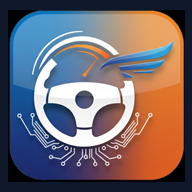
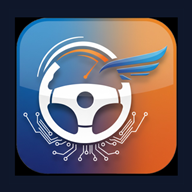
deploy: 24.04.2026, 04:01:58 (GMT+5)
─── Сохранение деплоя в GitHub ───

Дата и время сохранения (локально): 24.04.2026, 04:01:58 (GMT+5)
Дата и время (UTC, ISO): 2026-04-23T23:01:58.573Z

Действие: сборка (npm run build), публикация на Firebase Hosting и выкат Firestore/Storage правил и индексов.

Изменённые файлы (статус):
M	.firebase/hosting.ZGlzdA.cache
M	firebase.json
M	index.html
M	public/app-icon-192.png
M	public/app-icon-maskable-512.png
M	public/app-icon-v6.png
A	public/apple-touch-icon.png
M	public/manifest.webmanifest
M	public/open-app.html
M	public/version.json
M	scripts/generate-pwa-icons.ps1
M	src/pages/InstallAppPage.tsx
M	vite.config.ts

Детализация (git diff --cached --stat):
.firebase/hosting.ZGlzdA.cache   |  57 ++++++++++++++++---------------
 firebase.json                    |   2 +-
 index.html                       |   3 +-
 public/app-icon-192.png          | Bin 66176 -> 58604 bytes
 public/app-icon-maskable-512.png | Bin 188947 -> 168400 bytes
 public/app-icon-v6.png           | Bin 351343 -> 318698 bytes
 public/apple-touch-icon.png      | Bin 0 -> 52044 bytes
 public/manifest.webmanifest      |   2 --
 public/open-app.html             |   2 +-
 public/version.json              |   4 +--
 scripts/generate-pwa-icons.ps1   |   3 +-
 src/pages/InstallAppPage.tsx     |   6 +++-
 vite.config.ts                   |  71 ++++++++++++++++++++++++---------------
 13 files changed, 85 insertions(+), 65 deletions(-)

Итого: 13 files changed, 85 insertions(+), 65 deletions(-)
[…]

diff --git a/vite.config.ts b/vite.config.ts
@@ -112,34 +112,48 @@ function firebaseMessagingSwPlugin(mode: string): Plugin {
       const outDir = path.resolve(__dirname, "dist");
       const json = JSON.stringify(cfg);
       const fbVer = firebaseJsVersionForSw();
-      const src = `importScripts("https://www.gstatic.com/firebasejs/${fbVer}/firebase-app-compat.js");
-importScripts("https://www.gstatic.com/firebasejs/${fbVer}/firebase-messaging-compat.js");
-firebase.initializeApp(${json});
-const messaging = firebase.messaging();
-messaging.onBackgroundMessage((payload) => {
-  const d = payload.data || {};
-  const title =
-    (typeof d.title === "string" && d.title) ||
-    (payload.notification && payload.notification.title) ||
-    "\u2060";
-  const body =
-    (typeof d.body === "string" && d.body) ||
-    (payload.notification && payload.notification.body) ||
-    "";
-  const opts = {
-    body,
-    icon: "/app-icon-v6.png",
-    badge: "/favicon.svg",
-    data: d,
-    tag:
-      d.kind === "chat" && typeof d.chatId === "string" && d.chatId
-        ? "chat-" + d.chatId
-        : "startavto-" + (typeof d.kind === "string" ? d.kind : "msg"),
-  };
-  return self.registration.showNotification(title, opts);
+      const src = `try {
+  importScripts("https://www.gstatic.com/firebasejs/${fbVer}/firebase-app-compat.js");
+} catch (e) {}
+try {
+  importScripts("https://www.gstatic.com/firebasejs/${fbVer}/firebase-messaging-compat.js");
+} catch (e) {}
+try {
+  if (typeof firebase !== "undefined" && firebase.initializeApp) {
+    firebase.initializeApp(${json});
+    var messaging = typeof firebase.messaging === "function" ? firebase.messaging() : null;
+    if (messaging && typeof messaging.onBackgroundMessage === "function") {
+      messaging.onBackgroundMessage(function (payload) {
+        var d = payload.data || {};
+        var title =
+          (typeof d.title === "string" && d.title) ||
+          (payload.notification && payload.notification.title) ||
+          "\u2060";
+        var body =
+          (typeof d.body === "string" && d.body) ||
+          (payload.notification && payload.notification.body) ||
+          "";
+        var opts = {
+          body: body,
+          icon: "/app-icon-v6.png",
+          badge: "/app-icon-192.png",
+          data: d,
+          tag:
+            d.kind === "chat" && typeof d.chatId === "string" && d.chatId
+              ? "chat-" + d.chatId
+              : "startavto-" + (typeof d.kind === "string" ? d.kind : "msg"),
+        };
+        return self.registration.showNotification(title, opts);
+      });
+    }
+  }
+} catch (e) {}
+self.addEventListener("install", function (e) {
+  e.waitUntil(self.skipWaiting());
 });
-self.addEventListener("install", (e) => e.waitUntil(self.skipWaiting()));
-self.addEventListener("activate", (e) => e.waitUntil(self.clients.claim()));
+self.addEventListener("activate", function (e) {
+  e.waitUntil(self.clients.claim());
+});
 `;
       fs.mkdirSync(outDir, { recursive: true });
       fs.writeFileSync(path.join(outDir, "firebase-messaging-sw.js"), src, "utf8");
@@ -163,6 +177,7 @@ export default defineConfig(({ mode }) => {
       filename: "sw.js",
       includeAssets: [
         "favicon.ico",
+        "apple-touch-icon.png",
         "app-icon-192.png",
         "app-icon-maskable-512.png",
         "app-icon-v6.png",
@@ -176,6 +191,8 @@ export default defineConfig(({ mode }) => {
        */
       workbox: {
         globPatterns: ["**/*.{js,css,html,ico,png,svg,woff2,webmanifest}"],
+        /** `app-icon-source.png` не выкладываем на Hosting — не должен попадать в precache. */
+        globIgnores: ["**/app-icon-source.png"],
         maximumFileSizeToCacheInBytes: 6 * 1024 * 1024,
         navigateFallback: "/index.html",
         navigateFallbackDenylist: [/^\/api\//],

diff --git a/src/pages/InstallAppPage.tsx b/src/pages/InstallAppPage.tsx
@@ -152,7 +152,11 @@ function IosInstructions() {
   return (
     <ol className="install-app-steps">
       <li>
-        Откройте сайт <strong>в браузере Safari</strong> (не внутри других приложений).
+        Нужны <strong>iOS / iPadOS 16.4 или новее</strong> и открытие <strong>в Safari</strong> (не во встроенном браузере
+        Telegram, Instagram и т.п. — там пункта «На экран „Домой“» может не быть).
+      </li>
+      <li>
+        Откройте сайт <strong>в Safari</strong> по обычной ссылке (лучше скопировать адрес из чата и вставить в Safari).
       </li>
       <li>
         Нажмите кнопку <strong>Поделиться</strong> внизу экрана (квадрат со стрелкой вверх).

diff --git a/index.html b/index.html
@@ -13,10 +13,9 @@
     <meta name="apple-mobile-web-app-title" content="StartAvto" />
     <meta name="apple-mobile-web-app-status-bar-style" content="black-translucent" />
     <meta name="format-detection" content="telephone=no" />
+    <link rel="apple-touch-icon" href="/apple-touch-icon.png" sizes="180x180" />
     <link rel="icon" type="image/png" sizes="192x192" href="/app-icon-192.png" />
     <link rel="icon" type="image/png" sizes="512x512" href="/app-icon-v6.png" />
-    <link rel="apple-touch-icon" sizes="180x180" href="/app-icon-192.png" />
-    <link rel="apple-touch-icon" href="/app-icon-192.png" />
     <link rel="icon" href="/favicon.ico" sizes="32x32" />
     <link rel="icon" type="image/svg+xml" href="/favicon.svg" />
     <link rel="manifest" href="/manifest.webmanifest" />

diff --git a/public/open-app.html b/public/open-app.html
@@ -9,7 +9,7 @@
     <meta name="apple-mobile-web-app-capable" content="yes" />
     <meta name="apple-mobile-web-app-title" content="StartAvto" />
     <link rel="manifest" href="/manifest.webmanifest" />
-    <link rel="apple-touch-icon" sizes="180x180" href="/app-icon-192.png" />
+    <link rel="apple-touch-icon" href="/apple-touch-icon.png" sizes="180x180" />
     <title>Открытие StartAvto</title>
     <meta name="robots" content="noindex,nofollow" />
     <meta property="og:title" content="StartAvto" />
